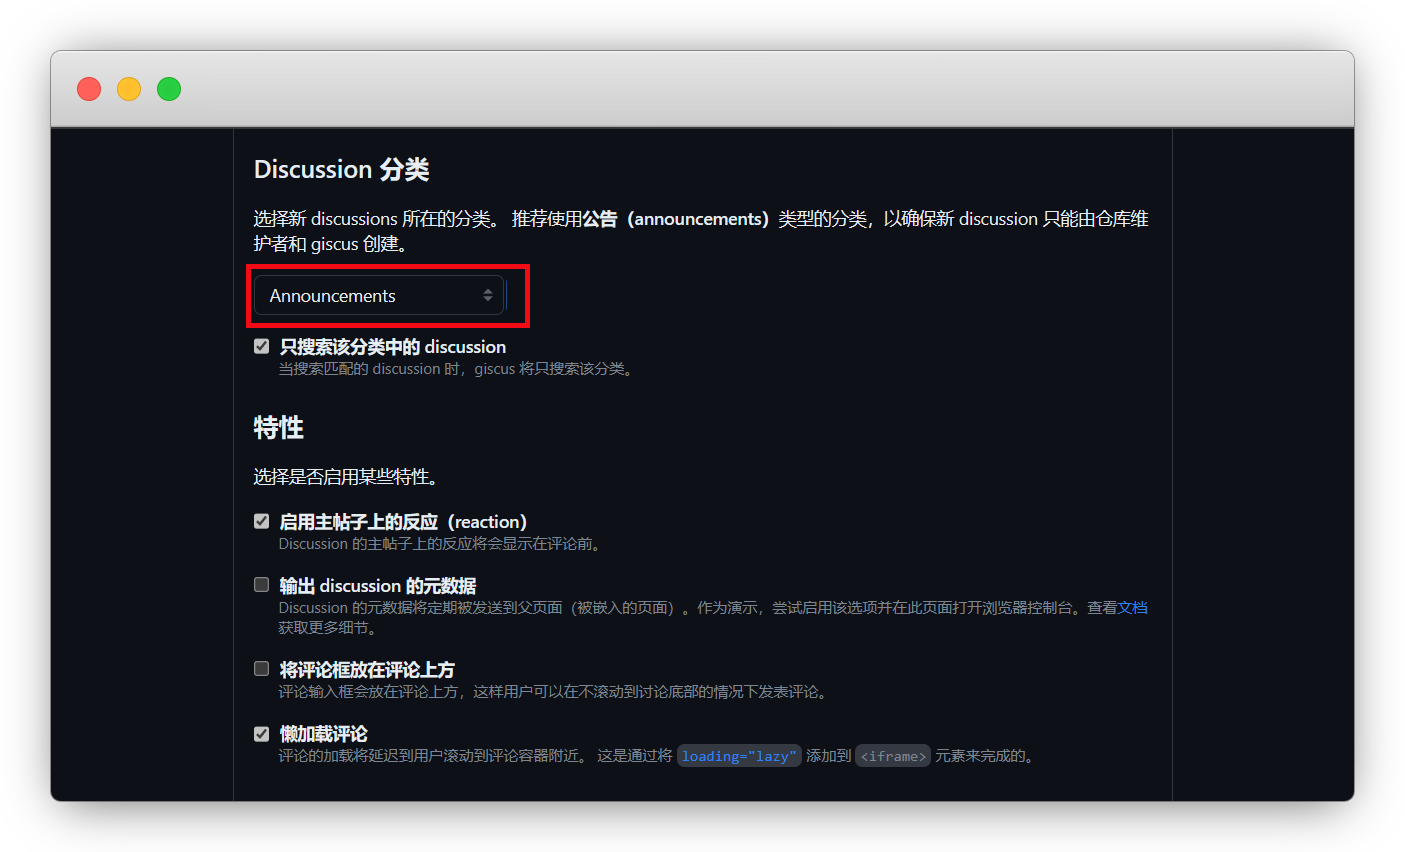
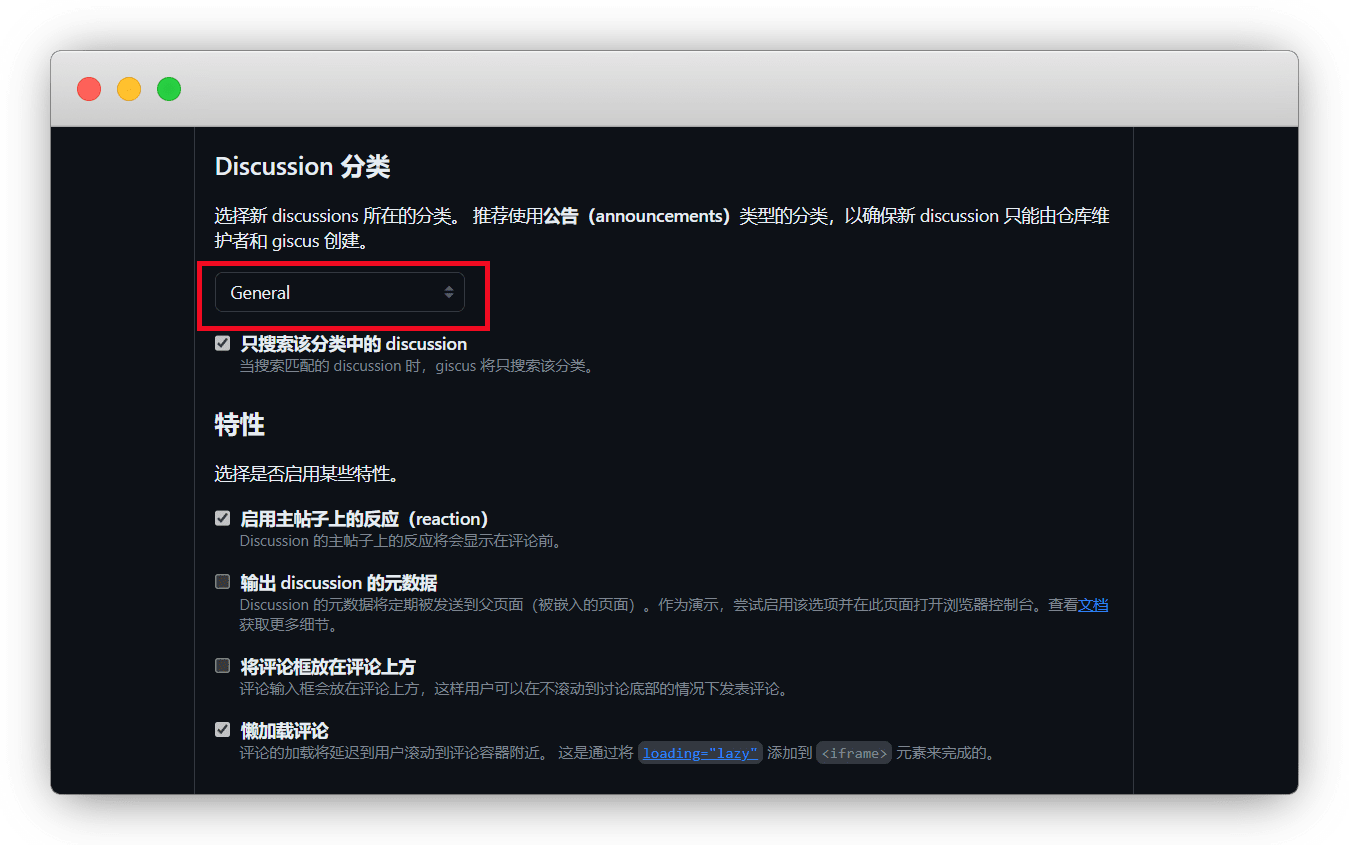
更新Giscus讨论分类

diff --git a/docs/.vitepress/theme/index.ts b/docs/.vitepress/theme/index.ts
@@ -121,7 +121,7 @@ export default {
       repo: 'Yiov/vitepress-doc', //仓库
       repoId: 'R_kgDOGYFl1A', //仓库ID
       category: 'General', // 讨论分类
-      categoryId: 'DIC_kwDOGYFl1M4CayLM', //讨论分类ID
+      categoryId: 'DIC_kwDOGYFl1M4CayLN', //讨论分类ID
       mapping: 'pathname',
       inputPosition: 'bottom',
       lang: 'zh-CN',

diff --git a/docs/plugin.md b/docs/plugin.md
@@ -1210,21 +1210,17 @@ Giscus 是一个基于 GitHub Discussion 的评论系统，启用简便
 
 下拉到 Discussion 分类推荐选 `General` ，懒加载评论也可以勾选下
 
-::: details 关于讨论的类型
+::: details 关于讨论的类型，分类如下
 查看了一下 [Github的讨论文档](https://docs.github.com/zh/discussions/managing-discussions-for-your-community/managing-categories-for-discussions#about-categories-for-discussions)
 
-* Announcements：公告，每次评论都会推送所有人！
-
-* Geeral：常规，开放式讨论
-
-* Ideas：想法，开放式讨论
-
-* Polls：投票
-
-* Q&A：问答
-
-* Show and tell：展示和说明，开放式讨论
-
+| 类别 | 中文 | 说明 |
+|:-:|:-:|:-:|
+| Announcements | 公告 | 每次评论都会推送所有人 |
+| General | 常规 | 开放式讨论 |
+| Ideas | 想法 | 开放式讨论 |
+| Polls | 投票 | 可投票与讨论 |
+| Q&A | 问答 | 问答形式 |
+| Show and tell | 展示和说明 | 开放式讨论 |
 :::
 
 ![](/giscus/giscus-05.png)

diff --git a/docs/changelog.md b/docs/changelog.md
@@ -18,9 +18,9 @@ next: false
 > 
 > 不过版本更新，还是会跟着走的
 
-## 2025-3-5
+## 2025-3-6
 
-- 更改 [Giscus讨论的分类](./plugin.md#评论)
+- 更新 [Giscus讨论的分类](./plugin.md#评论)
 
 ## 2025-3-2
 
